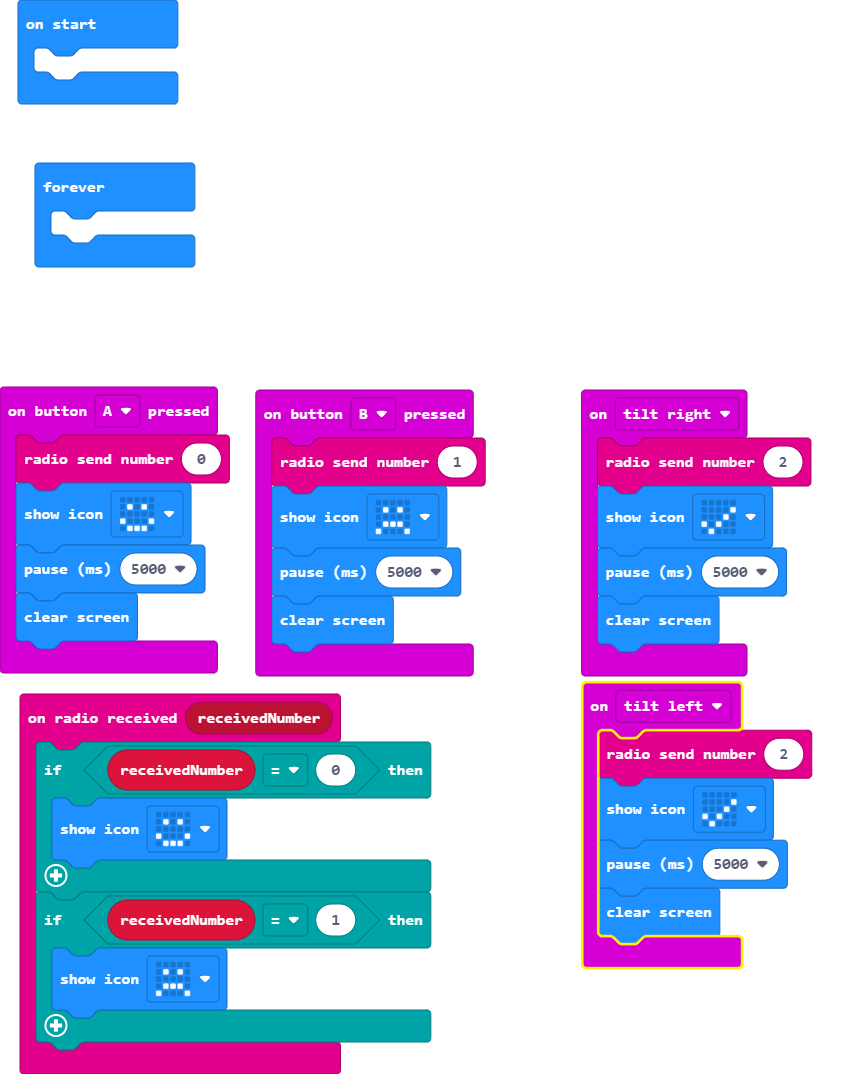
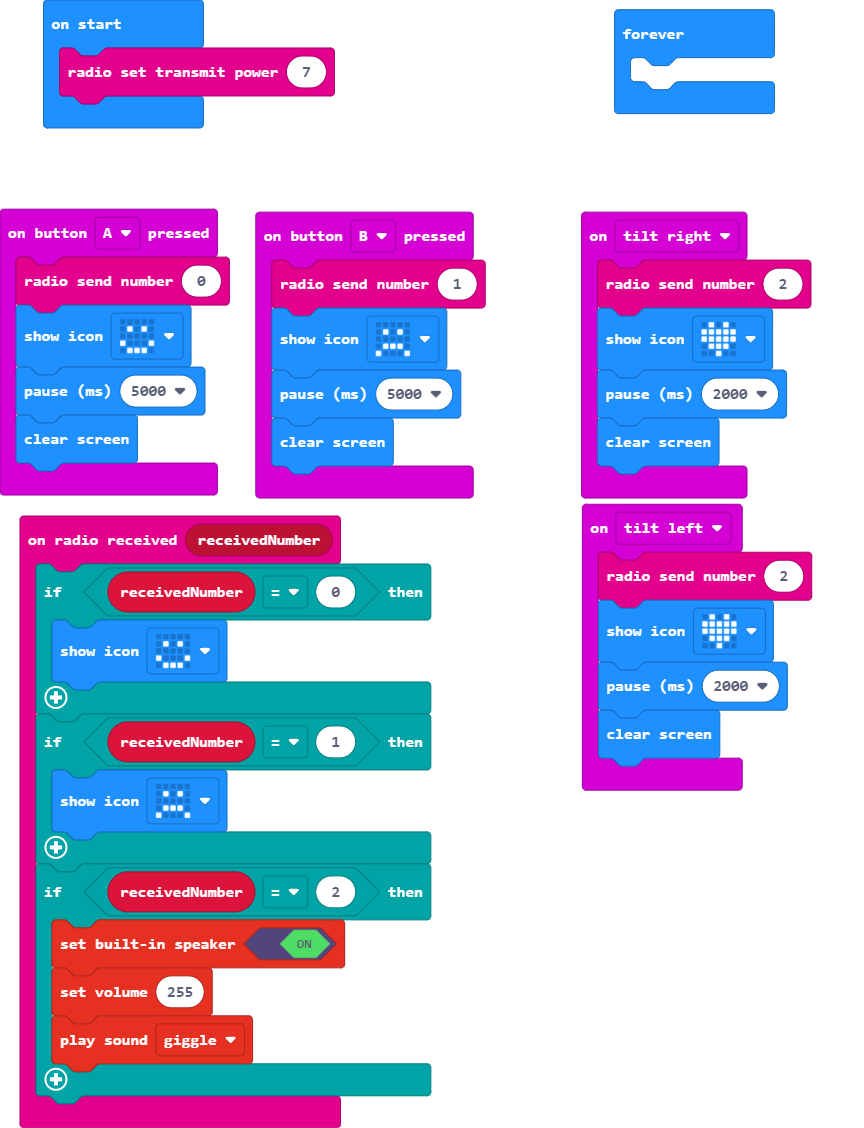
Update main.blocks, main.ts

diff --git a/main.ts b/main.ts
@@ -5,6 +5,11 @@ radio.onReceivedNumber(function (receivedNumber) {
     if (receivedNumber == 1) {
         basic.showIcon(IconNames.Sad)
     }
+    if (receivedNumber == 2) {
+        music.setBuiltInSpeakerEnabled(true)
+        music.setVolume(255)
+        soundExpression.giggle.play()
+    }
 })
 input.onButtonPressed(Button.A, function () {
     radio.sendNumber(0)
@@ -14,8 +19,8 @@ input.onButtonPressed(Button.A, function () {
 })
 input.onGesture(Gesture.TiltLeft, function () {
     radio.sendNumber(2)
-    basic.showIcon(IconNames.Yes)
-    basic.pause(5000)
+    basic.showIcon(IconNames.Heart)
+    basic.pause(2000)
     basic.clearScreen()
 })
 input.onButtonPressed(Button.B, function () {
@@ -26,10 +31,11 @@ input.onButtonPressed(Button.B, function () {
 })
 input.onGesture(Gesture.TiltRight, function () {
     radio.sendNumber(2)
-    basic.showIcon(IconNames.Yes)
-    basic.pause(5000)
+    basic.showIcon(IconNames.Heart)
+    basic.pause(2000)
     basic.clearScreen()
 })
+radio.setTransmitPower(7)
 basic.forever(function () {
 	
 })
